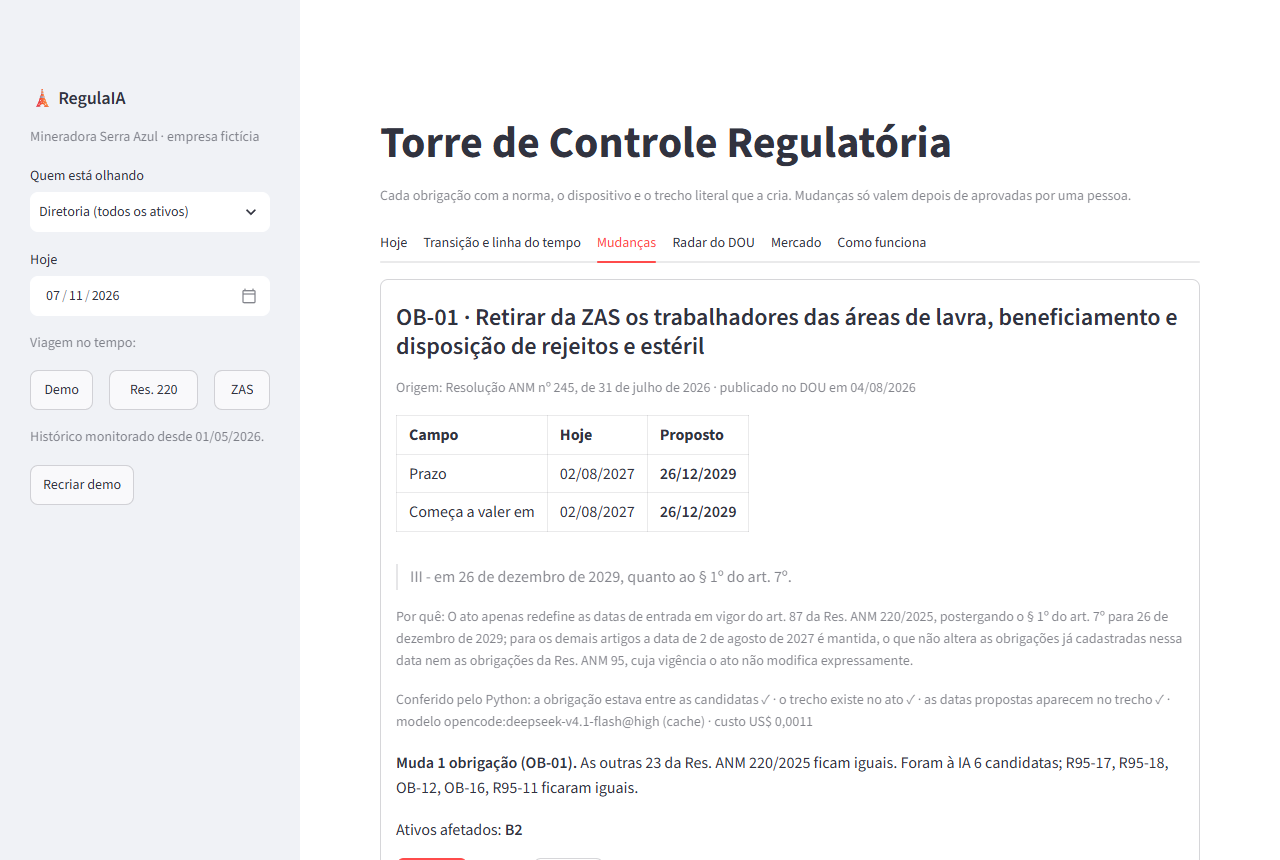
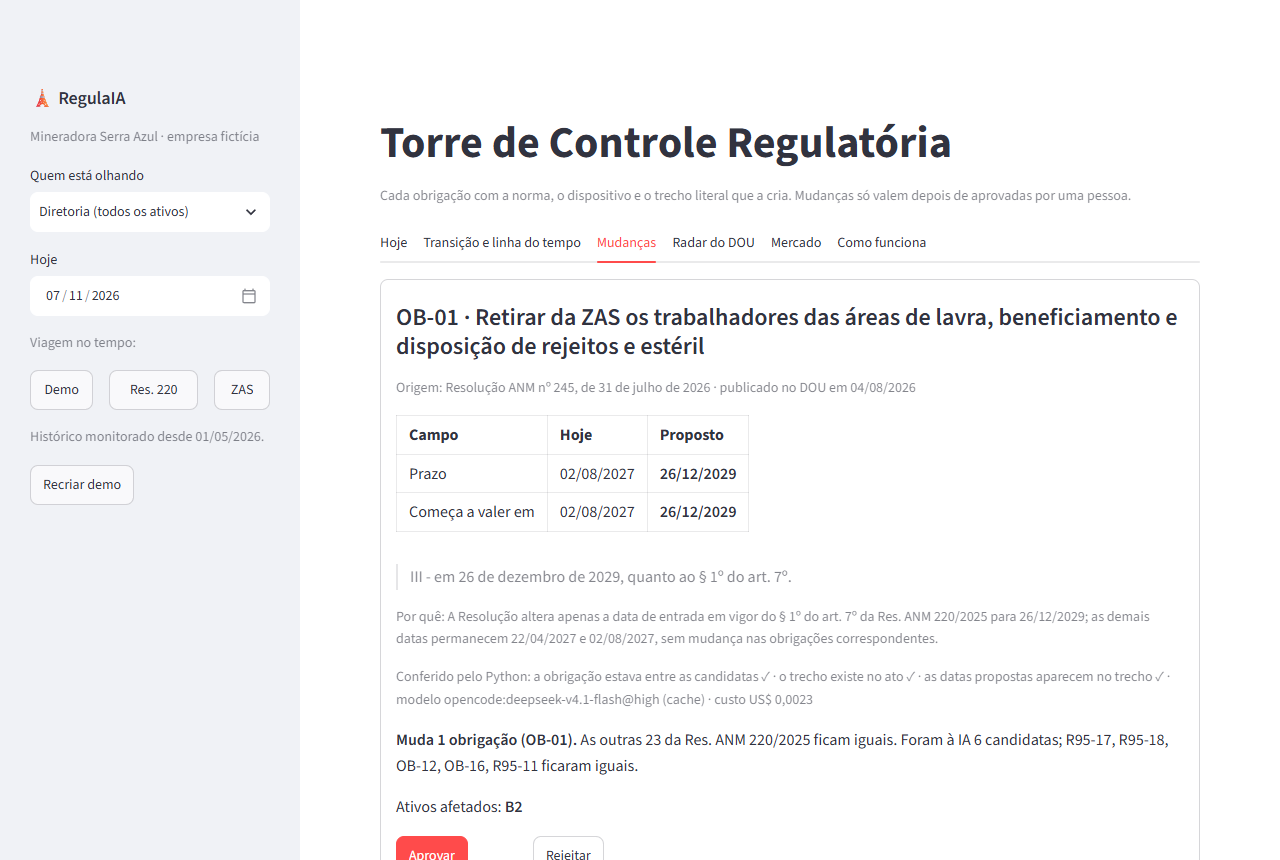
fix(cadastro): Res. 95: monitoramento como obrigação contínua; Res. 245 reanalisada e cache exportado

Changed region(s): [[0.3125, 0.6953, 0.9062, 1.0], [0.4062, 0.9674, 0.4688, 1.0]]

diff --git a/tests/test_documentacao.py b/tests/test_documentacao.py
@@ -155,9 +155,11 @@ def test_custos_citados_batem_com_o_que_foi_gasto():
     assert f"Res. 95 inteira custou {usd(custo['res95_2022'])}. A NR-13, {usd(custo['nr13'])}" in roteiro
     radar = json.loads((RAIZ / "data" / "radar_demo.json").read_text(encoding="utf-8")) \
         if (RAIZ / "data" / "radar_demo.json").exists() else None
+    assert "| Analisar o impacto de um ato candidato do DOU | ~2 mil tokens de entrada | US$ 0,0005 a 0,003 |" in arq
+    assert "Cada análise custou menos de meio centavo de dólar" in roteiro
     if radar:      # gerado por demo.preparar (fora do Git): por ato, a análise fica na faixa citada
         for r in radar:
-            assert 0.0005 <= r.get("custo_original_usd", r["custo_usd"]) <= 0.002, r["ato"]
+            assert 0.0005 <= r.get("custo_original_usd", r["custo_usd"]) <= 0.003, r["ato"]
 
 
 def test_o_que_o_app_importa_esta_nas_dependencias_de_producao():

diff --git a/docs/BACKLOG.md b/docs/BACKLOG.md
@@ -98,3 +98,4 @@ ou Haiku/Sonnet; nada de Opus; chaves só no `.env`; o CSV bruto do SIGBM (tem C
 - [x] Preparo para o Linux da imagem: teste confere que todo caminho citado no código bate letra por letra com o disco (Windows não distingue maiúscula), sem nomes que só diferem na caixa e sem acento em nome de arquivo
 - [x] Fins de linha: tudo LF no Git (o Linux da imagem lê igual); PNG marcado como binário no .gitattributes
 - [x] Boletim junta a mesma obrigação com o mesmo prazo em vários ativos numa linha ("B1, B2, B4 · Preencher as FIR…"): a seção de 30 dias da diretoria cai de 9 para 5 linhas; as contagens seguem por ativo
+- [x] Res. 95: monitoramento automatizado e vídeo-monitoramento (R95-17, R95-18) marcados como "Contínua" (eram "Por evento"), igual às equivalentes da Res. 220 na transição. Mudou o prompt da Res. 245: análise refeita com o modelo (mesmo resultado, só a OB-01; US$ 0,0023), cache exportado e conferido sem chave num diretório limpo; o "por quê" novo cita 22/04/2027, que está no ato (art. 87, I). Faixa de custo por ato na documentação atualizada para US$ 0,0005 a 0,003; captura de Mudanças refeita

diff --git a/docs/ROTEIRO_DEMO.md b/docs/ROTEIRO_DEMO.md
@@ -32,7 +32,7 @@ Antes de começar: `uv run streamlit run app.py`, barra lateral com "Hoje" em 07
 ## 4. Radar do DOU (30 s)
 
 - Funil de agosto/2026: 7.884 atos → 825 da ANM → 2 normativos para a IA → 1 muda o cadastro.
-- **Fala:** "Regra antes de IA: 99,97% do volume nunca chega ao modelo. Cada análise custou cerca de um décimo de centavo de dólar, e a resposta fica em cache. A empresa pode usar a própria conta de IA (Bedrock, Anthropic), então os documentos dela não saem de casa."
+- **Fala:** "Regra antes de IA: 99,97% do volume nunca chega ao modelo. Cada análise custou menos de meio centavo de dólar, e a resposta fica em cache. A empresa pode usar a própria conta de IA (Bedrock, Anthropic), então os documentos dela não saem de casa."
 
 ## Se perguntarem
 

diff --git a/docs/ARQUITETURA.md b/docs/ARQUITETURA.md
@@ -162,7 +162,7 @@ Mais duas proteções:
 | Extrair obrigações da Res. ANM 95/2022 (norma inteira) | 1 vez por norma | US$ 0,065 |
 | Extrair obrigações da NR-13 | 1 vez por norma | US$ 0,045 |
 | Extrair obrigações da NR-22 (capítulo de barragens) | 1 vez por norma | US$ 0,009 |
-| Analisar o impacto de um ato candidato do DOU | ~2 mil tokens de entrada | US$ 0,0005 a 0,002 |
+| Analisar o impacto de um ato candidato do DOU | ~2 mil tokens de entrada | US$ 0,0005 a 0,003 |
 | Funil de um mês do DOU (7.884 atos) | 825 da ANM → 2 candidatos para a IA | menos de US$ 0,01 |
 
 As regras resolvem 99,97% do volume. A IA só vê o que sobrou, e cada resposta fica em cache.
